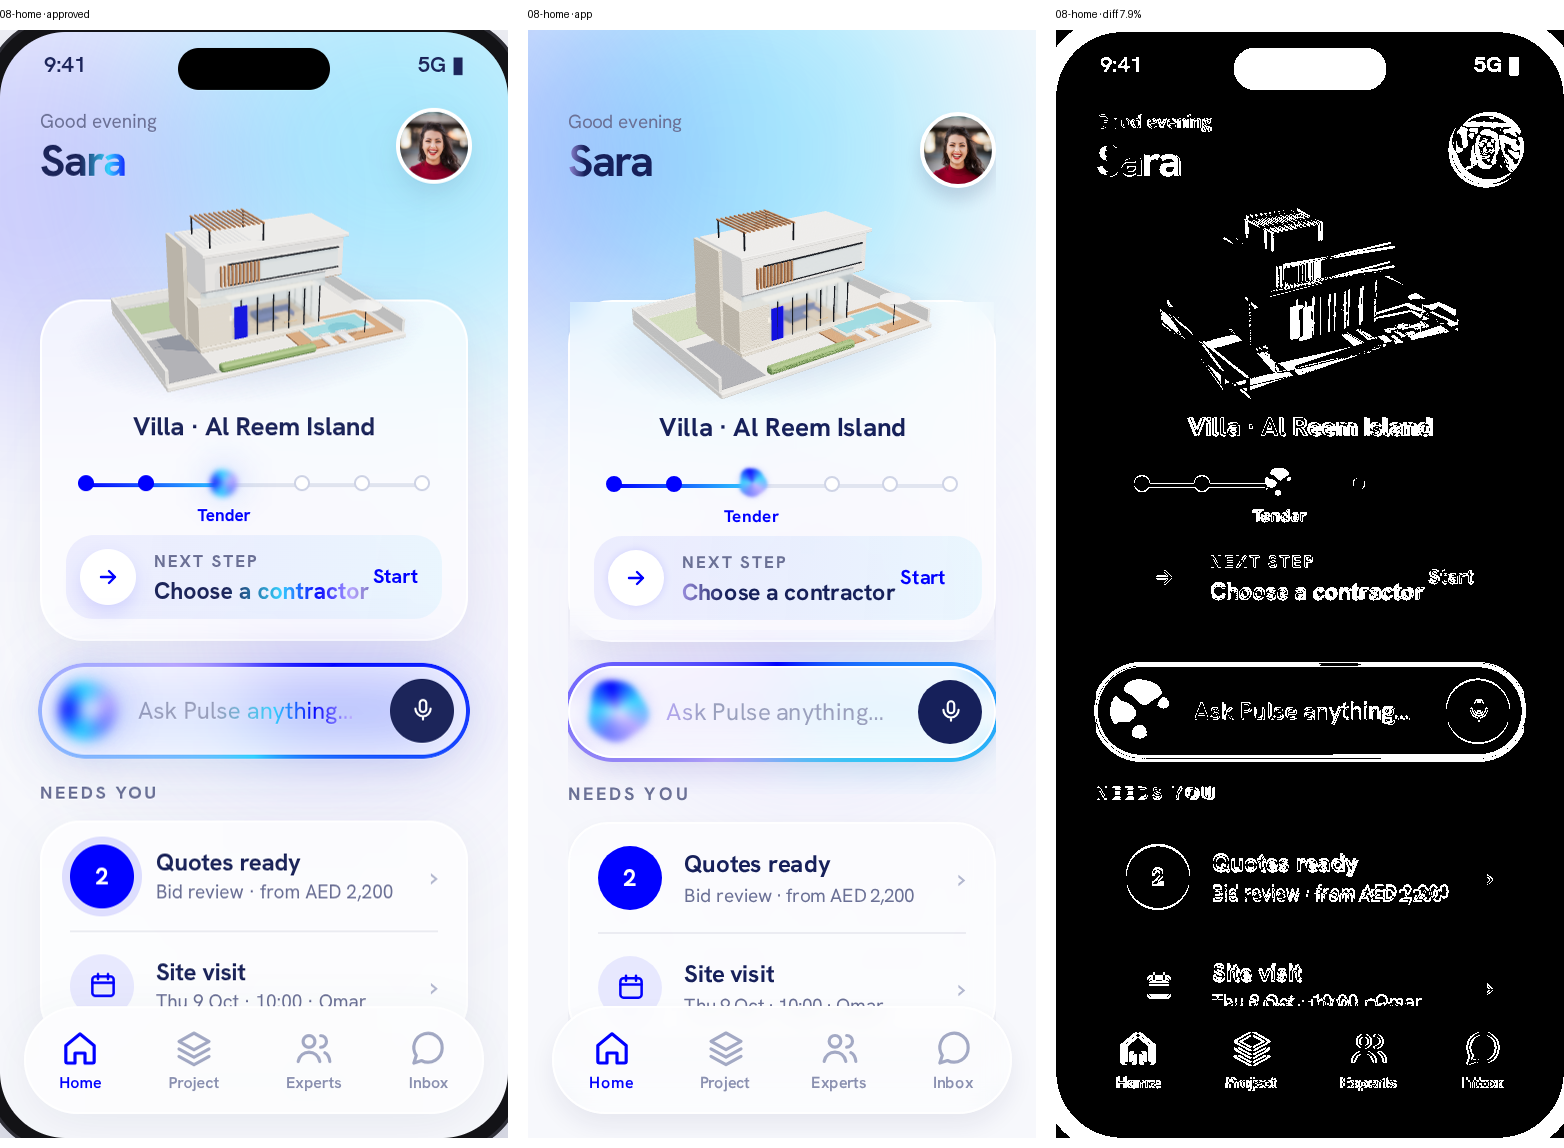
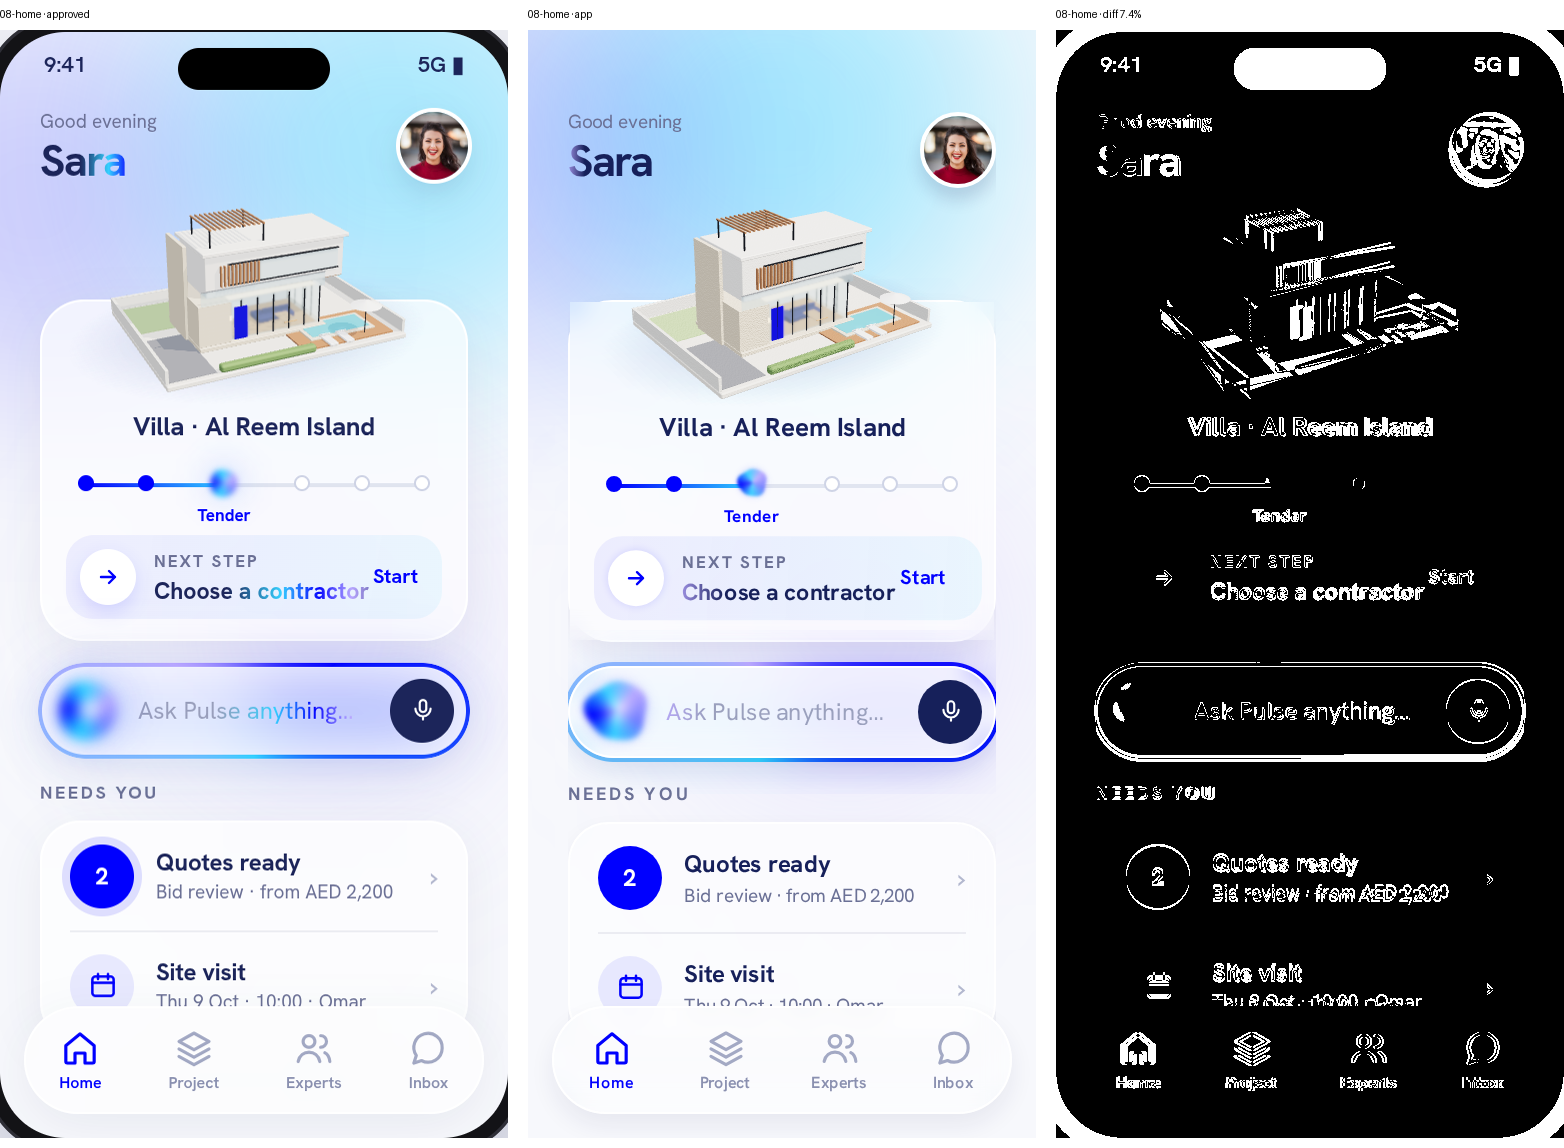
feat(mobile): Home/Profile motion (rise + de-blur stagger, ask-bar blob expand)

diff --git a/mobile/src/app/(client)/(tabs)/home.tsx b/mobile/src/app/(client)/(tabs)/home.tsx
@@ -1,6 +1,8 @@
 import { useMemo } from 'react';
 import { Pressable, ScrollView, View } from 'react-native';
 import { router } from 'expo-router';
+import * as Haptics from 'expo-haptics';
+import Animated, { useSharedValue, useAnimatedStyle, withTiming } from 'react-native-reanimated';
 import { LinearGradient } from 'expo-linear-gradient';
 import { Screen } from '@/ui/Screen';
 import { T } from '@/ui/T';
@@ -12,11 +14,12 @@ import { GradientText } from '@/fx/GradientText';
 import { IridescentBorder } from '@/fx/IridescentBorder';
 import { StageTrack } from '@/fx/StageTrack';
 import { ModelView } from '@/three/ModelView';
+import { Rise } from '@/motion/Rise';
 import { useDemo, newQuotesFor } from '@/store/demo';
 import { BUILDINGS, NEXT_STEP } from '@/data/types';
 import { EXPERTS, aed } from '@/data/seed';
 import { s } from '@/theme/scale';
-import { C } from '@/theme/tokens';
+import { C, EASE } from '@/theme/tokens';
 
 export default function Home() {
   const { stage, projectType, jobs } = useDemo();
@@ -24,63 +27,86 @@ export default function Home() {
   const fresh = useMemo(() => newQuotesFor({ quotes } as any, 'req-bid'), [quotes]);
   const from = Math.min(...fresh.map((q) => q.price));
   const job = jobs.find((j) => j.status === 'visit' || j.status === 'booked');
+  const leave = useSharedValue(0);
+  const page = useAnimatedStyle(() => ({ opacity: 1 - leave.value }));
+  const blob = useAnimatedStyle(() => ({ transform: [{ scale: 1 + leave.value * 3 }] }));
+  // Ask bar: the blob expands (1 to 4) while the page fades (EASE, 350ms), light haptic, Pulse opens.
+  // The tab stays mounted under Pulse, so the values are reset once Pulse covers it.
+  const openPulse = () => {
+    Haptics.impactAsync(Haptics.ImpactFeedbackStyle.Light);
+    leave.value = withTiming(1, { duration: 350, easing: EASE });
+    router.push('/pulse');
+    setTimeout(() => { leave.value = 0; }, 900);
+  };
   const b = BUILDINGS.find((x) => x.id === projectType)!;
   return (
     <Screen bg="aurora3">
+      <Animated.View style={[{ flex: 1 }, page]}>
       <ScrollView showsVerticalScrollIndicator={false} contentContainerStyle={{ paddingBottom: s(90) }}>
-        <View style={{ flexDirection: 'row', justifyContent: 'space-between', alignItems: 'center', paddingTop: s(9) }}>
-          <View><T size={9.5} c={C.mute}>Good evening</T><GradientText shimmer size={22} w={700} ls={-0.035} style={{ marginTop: s(-1) }}>Sara</GradientText></View>
-          <Pressable onPress={() => router.push('/profile')}><Avatar photo="sara" size={34} ring="white" /></Pressable>
-        </View>
-
-        <Glass r={22} style={{ marginTop: s(54.5), paddingTop: s(54), paddingHorizontal: s(12), paddingBottom: s(10), overflow: 'visible' }}>
-          <View style={{ position: 'absolute', left: '50%', marginLeft: -s(95), top: -s(74), width: s(190), height: s(140) }}>
-            <ModelView model={b.id} lights={0.5} radius={9.4} target={[0, 2.2, 0]} height={0.42} spin={0.15} shadows={false} />
+        <Rise index={0} blur={false}>
+          <View style={{ flexDirection: 'row', justifyContent: 'space-between', alignItems: 'center', paddingTop: s(9) }}>
+            <View><T size={9.5} c={C.mute}>Good evening</T><GradientText shimmer size={22} w={700} ls={-0.035} style={{ marginTop: s(-1) }}>Sara</GradientText></View>
+            <Pressable onPress={() => router.push('/profile')}><Avatar photo="sara" size={34} ring="white" /></Pressable>
           </View>
-          <T size={13} w={700} ls={-0.01} align="center">{b.name} · Al Reem Island</T>
-          <StageTrack stage={stage} />
-          <Pressable onPress={() => router.push('/quotes?request=req-bid')}>
-            <LinearGradient colors={['rgba(0,0,254,0.06)', 'rgba(49,209,255,0.08)']} start={{ x: 0, y: 0 }} end={{ x: 1, y: 0.3 }}
-              style={{ marginTop: s(8), borderRadius: s(14), paddingVertical: s(7), paddingLeft: s(7), paddingRight: s(18), marginRight: -s(6), flexDirection: 'row', alignItems: 'center', gap: s(9) }}>
-              <View style={{ width: s(28), height: s(28), borderRadius: s(14), backgroundColor: '#fff', alignItems: 'center', justifyContent: 'center',
-                shadowColor: C.blue, shadowOpacity: 0.12, shadowRadius: s(5), elevation: 2 }}><Icon name="arrowR" size={12} color={C.blue} stroke={2.4} /></View>
-              <View style={{ flex: 1, minWidth: 0, alignItems: 'flex-start' }}>
-                <T size={8.5} w={700} ls={0.12} c={C.mute}>NEXT STEP</T>
-                <GradientText shimmer size={11.5} w={700} style={{ marginTop: 1, flexShrink: 0, whiteSpace: 'nowrap' } as any}>{NEXT_STEP[stage - 1]}</GradientText>
-              </View>
-              <T size={10} w={700} c={C.blue}>Start</T>
-            </LinearGradient>
+        </Rise>
+
+        <Rise index={1} r={22} style={{ marginTop: s(54.5) }}>
+          <Glass r={22} style={{ paddingTop: s(54), paddingHorizontal: s(12), paddingBottom: s(10), overflow: 'visible' }}>
+            <View style={{ position: 'absolute', left: '50%', marginLeft: -s(95), top: -s(74), width: s(190), height: s(140) }}>
+              <ModelView model={b.id} lights={0.5} radius={9.4} target={[0, 2.2, 0]} height={0.42} spin={0.15} shadows={false} />
+            </View>
+            <T size={13} w={700} ls={-0.01} align="center">{b.name} · Al Reem Island</T>
+            <StageTrack stage={stage} />
+            <Rise index={3} spring blur={false}>
+              <Pressable onPress={() => router.push('/quotes?request=req-bid')}>
+                <LinearGradient colors={['rgba(0,0,254,0.06)', 'rgba(49,209,255,0.08)']} start={{ x: 0, y: 0 }} end={{ x: 1, y: 0.3 }}
+                  style={{ marginTop: s(8), borderRadius: s(14), paddingVertical: s(7), paddingLeft: s(7), paddingRight: s(18), marginRight: -s(6), flexDirection: 'row', alignItems: 'center', gap: s(9) }}>
+                  <View style={{ width: s(28), height: s(28), borderRadius: s(14), backgroundColor: '#fff', alignItems: 'center', justifyContent: 'center',
+                    shadowColor: C.blue, shadowOpacity: 0.12, shadowRadius: s(5), elevation: 2 }}><Icon name="arrowR" size={12} color={C.blue} stroke={2.4} /></View>
+                  <View style={{ flex: 1, minWidth: 0, alignItems: 'flex-start' }}>
+                    <T size={8.5} w={700} ls={0.12} c={C.mute}>NEXT STEP</T>
+                    <GradientText shimmer size={11.5} w={700} style={{ marginTop: 1, flexShrink: 0, whiteSpace: 'nowrap' } as any}>{NEXT_STEP[stage - 1]}</GradientText>
+                  </View>
+                  <T size={10} w={700} c={C.blue}>Start</T>
+                </LinearGradient>
+              </Pressable>
+            </Rise>
+          </Glass>
+        </Rise>
+
+        <Rise index={2} r={24} style={{ marginTop: s(12) }}>
+          <Pressable onPress={openPulse}>
+            <IridescentBorder r={24}>
+              <Glass r={24} style={{ flexDirection: 'row', alignItems: 'center', gap: s(10), paddingVertical: s(6), paddingLeft: s(8), paddingRight: s(6) }}>
+                <Animated.View style={blob}><Orb size={30} /></Animated.View>
+                <GradientText shimmer base={C.faint2} size={12} style={{ flex: 1 }}>Ask Pulse anything…</GradientText>
+                <View style={{ width: s(32), height: s(32), borderRadius: s(16), backgroundColor: C.navy, alignItems: 'center', justifyContent: 'center' }}><Icon name="mic" size={13} color="#fff" stroke={2} /></View>
+              </Glass>
+            </IridescentBorder>
           </Pressable>
-        </Glass>
+        </Rise>
 
-        <Pressable onPress={() => router.push('/pulse')} style={{ marginTop: s(12) }}>
-          <IridescentBorder r={24}>
-            <Glass r={24} style={{ flexDirection: 'row', alignItems: 'center', gap: s(10), paddingVertical: s(6), paddingLeft: s(8), paddingRight: s(6) }}>
-              <Orb size={30} />
-              <GradientText shimmer base={C.faint2} size={12} style={{ flex: 1 }}>Ask Pulse anything…</GradientText>
-              <View style={{ width: s(32), height: s(32), borderRadius: s(16), backgroundColor: C.navy, alignItems: 'center', justifyContent: 'center' }}><Icon name="mic" size={13} color="#fff" stroke={2} /></View>
-            </Glass>
-          </IridescentBorder>
-        </Pressable>
-
-        <T size={9} w={700} ls={0.14} c={C.mute} style={{ marginTop: s(12), marginBottom: s(8) }}>NEEDS YOU</T>
-        <Glass r={20} style={{ paddingHorizontal: s(14) }}>
-          {fresh.length > 0 && (
-            <Pressable onPress={() => router.push('/quotes?request=req-bid')} style={{ flexDirection: 'row', alignItems: 'center', gap: s(11), paddingVertical: s(11), borderBottomWidth: 1, borderBottomColor: C.line }}>
-              <View style={{ width: s(32), height: s(32), borderRadius: s(16), backgroundColor: C.blue, alignItems: 'center', justifyContent: 'center', borderWidth: s(4), borderColor: 'rgba(0,0,254,0.12)' }}><T size={12} w={700} c="#fff">{String(fresh.length)}</T></View>
-              <View style={{ flex: 1 }}><T size={12} w={700} ls={-0.01}>Quotes ready</T><T size={9.5} c={C.mute} style={{ marginTop: 1 }}>{`Bid review · from ${aed(from)}`}</T></View>
-              <T size={15} c={C.faint3}>›</T>
-            </Pressable>
-          )}
-          {job && (
-            <Pressable onPress={() => router.push(`/job/${job.id}`)} style={{ flexDirection: 'row', alignItems: 'center', gap: s(11), paddingVertical: s(11) }}>
-              <View style={{ width: s(32), height: s(32), borderRadius: s(16), backgroundColor: 'rgba(0,0,254,0.08)', alignItems: 'center', justifyContent: 'center' }}><Icon name="cal" size={15} color={C.blue} stroke={2} /></View>
-              <View style={{ flex: 1 }}><T size={12} w={700} ls={-0.01}>Site visit</T><T size={9.5} c={C.mute} style={{ marginTop: 1 }}>{`${job.dayLabel} · ${job.timeLabel} · ${EXPERTS.find((e) => e.id === job.expertId)!.first}`}</T></View>
-              <T size={15} c={C.faint3}>›</T>
-            </Pressable>
-          )}
-        </Glass>
+        <Rise index={4} blur={false}><T size={9} w={700} ls={0.14} c={C.mute} style={{ marginTop: s(12), marginBottom: s(8) }}>NEEDS YOU</T></Rise>
+        <Rise index={5} r={20}>
+          <Glass r={20} style={{ paddingHorizontal: s(14) }}>
+            {fresh.length > 0 && (
+              <Pressable onPress={() => router.push('/quotes?request=req-bid')} style={{ flexDirection: 'row', alignItems: 'center', gap: s(11), paddingVertical: s(11), borderBottomWidth: 1, borderBottomColor: C.line }}>
+                <View style={{ width: s(32), height: s(32), borderRadius: s(16), backgroundColor: C.blue, alignItems: 'center', justifyContent: 'center', borderWidth: s(4), borderColor: 'rgba(0,0,254,0.12)' }}><T size={12} w={700} c="#fff">{String(fresh.length)}</T></View>
+                <View style={{ flex: 1 }}><T size={12} w={700} ls={-0.01}>Quotes ready</T><T size={9.5} c={C.mute} style={{ marginTop: 1 }}>{`Bid review · from ${aed(from)}`}</T></View>
+                <T size={15} c={C.faint3}>›</T>
+              </Pressable>
+            )}
+            {job && (
+              <Pressable onPress={() => router.push(`/job/${job.id}`)} style={{ flexDirection: 'row', alignItems: 'center', gap: s(11), paddingVertical: s(11) }}>
+                <View style={{ width: s(32), height: s(32), borderRadius: s(16), backgroundColor: 'rgba(0,0,254,0.08)', alignItems: 'center', justifyContent: 'center' }}><Icon name="cal" size={15} color={C.blue} stroke={2} /></View>
+                <View style={{ flex: 1 }}><T size={12} w={700} ls={-0.01}>Site visit</T><T size={9.5} c={C.mute} style={{ marginTop: 1 }}>{`${job.dayLabel} · ${job.timeLabel} · ${EXPERTS.find((e) => e.id === job.expertId)!.first}`}</T></View>
+                <T size={15} c={C.faint3}>›</T>
+              </Pressable>
+            )}
+          </Glass>
+        </Rise>
       </ScrollView>
+      </Animated.View>
     </Screen>
   );
 }

diff --git a/mobile/src/app/(client)/(tabs)/profile.tsx b/mobile/src/app/(client)/(tabs)/profile.tsx
@@ -1,6 +1,9 @@
 import { Alert, Pressable, View } from 'react-native';
 import { router } from 'expo-router';
 import { LinearGradient } from 'expo-linear-gradient';
+import Animated, { useSharedValue, useAnimatedStyle, withTiming } from 'react-native-reanimated';
+import * as Haptics from 'expo-haptics';
+import { Rise } from '@/motion/Rise';
 import { Screen } from '@/ui/Screen';
 import { T } from '@/ui/T';
 import { Glass } from '@/ui/Glass';
@@ -11,7 +14,7 @@ import { CLIENT } from '@/data/seed';
 import { GRAD } from '@/theme/tokens';
 import { nextRoute } from '@/nav/next';
 import { s } from '@/theme/scale';
-import { C } from '@/theme/tokens';
+import { C, EASE } from '@/theme/tokens';
 
 const Row = ({ label, value, last }: { label: string; value?: string; last?: boolean }) => (
   <View style={{ flexDirection: 'row', alignItems: 'center', paddingVertical: s(12), borderBottomWidth: last ? 0 : 1, borderBottomColor: C.line }}>
@@ -21,21 +24,30 @@ const Row = ({ label, value, last }: { label: string; value?: string; last?: boo
 );
 
 export default function Profile() {
-  const toExpert = () => { const st = useDemo.getState(); st.setRole('expert'); router.replace(nextRoute({ ...st, role: 'expert' }) as any); };
+  const out = useSharedValue(0);
+  const fade = useAnimatedStyle(() => ({ opacity: 1 - out.value }));
+  // Switching cross-fades into Expert mode: the page fades out (EASE) while the expert route replaces it.
+  const toExpert = () => { Haptics.impactAsync(Haptics.ImpactFeedbackStyle.Light); out.value = withTiming(1, { duration: 350, easing: EASE }); const st = useDemo.getState(); st.setRole('expert'); router.replace(nextRoute({ ...st, role: 'expert' }) as any); };
   const reset = () => Alert.alert('Reset demo?', 'Restores the original demo data.', [{ text: 'Cancel' }, { text: 'Reset', style: 'destructive',
     onPress: () => { useDemo.getState().resetDemo(); router.replace('/'); } }]);
   return (
     <Screen bg="aurora3">
-      <View style={{ alignItems: 'center', marginTop: s(14) }}>
+      <Animated.View style={[{ flex: 1 }, fade]}>
+      <Rise index={0} blur={false} style={{ alignItems: 'center', marginTop: s(14) }}>
+      <View style={{ alignItems: 'center' }}>
         <Avatar photo="sara" size={70} ring="white4" />
         <T size={20} w={700} ls={-0.035} style={{ marginTop: s(6) }}>{CLIENT.name}</T>
         <T size={11} c={C.mute} style={{ marginTop: s(2) }}>{CLIENT.email}</T>
       </View>
-      <Glass r={18} style={{ marginTop: s(18), paddingHorizontal: s(14) }}>
+      </Rise>
+      <Rise index={1} r={18} style={{ marginTop: s(18) }}>
+      <Glass r={18} style={{ paddingHorizontal: s(14) }}>
         <Row label="My projects" value="1" /><Row label="Payments" /><Row label="Notifications" /><Row label="Language" value="English" last />
       </Glass>
+      </Rise>
+      <Rise index={2} r={18} style={{ marginTop: s(14) }}>
       <Pressable onPress={toExpert}>
-        <Glass r={18} style={{ marginTop: s(14), padding: s(14), flexDirection: 'row', alignItems: 'center', gap: s(12) }}>
+        <Glass r={18} style={{ padding: s(14), flexDirection: 'row', alignItems: 'center', gap: s(12) }}>
           <LinearGradient colors={GRAD} locations={[0, 0.55, 1]} start={{ x: 0, y: 0 }} end={{ x: 1, y: 1 }} style={{ width: s(32), height: s(32), borderRadius: s(10), alignItems: 'center', justifyContent: 'center' }}>
             <Icon name="swap" size={15} color="#fff" stroke={2.2} />
           </LinearGradient>
@@ -43,7 +55,9 @@ export default function Profile() {
           <T size={14} w={700} c={C.blue}>›</T>
         </Glass>
       </Pressable>
+      </Rise>
       <Pressable onLongPress={reset} style={{ marginTop: 'auto', marginBottom: s(84), alignSelf: 'center', opacity: 0 }}><T size={9} c={C.faint3}>Project Pulse demo · v1.0</T></Pressable>
+      </Animated.View>
     </Screen>
   );
 }

diff --git a/mobile/src/motion/Rise.tsx b/mobile/src/motion/Rise.tsx
@@ -1,0 +1,31 @@
+import { useEffect } from 'react';
+import { StyleSheet, ViewStyle } from 'react-native';
+import Animated, { useSharedValue, useAnimatedStyle, useAnimatedProps, withDelay, withTiming, withSpring } from 'react-native-reanimated';
+import { BlurView } from 'expo-blur';
+import { s } from '@/theme/scale';
+import { EASE } from '@/theme/tokens';
+
+const ABlur = Animated.createAnimatedComponent(BlurView);
+
+/** "Cards rise and de-blur in sequence": translateY s(14)->0 + opacity, with a blur veil that animates to 0. Stagger = index * 70ms. */
+export function Rise({ index = 0, r = 0, spring, blur = true, style, children }: {
+  index?: number; r?: number; spring?: boolean; blur?: boolean; style?: ViewStyle | ViewStyle[]; children: React.ReactNode;
+}) {
+  const p = useSharedValue(0);
+  useEffect(() => {
+    p.value = withDelay(index * 70, spring ? withSpring(1, { damping: 14, stiffness: 140, mass: 0.9 }) : withTiming(1, { duration: 650, easing: EASE }));
+  }, []);
+  const st = useAnimatedStyle(() => ({ opacity: Math.min(1, p.value * 1.6), transform: [{ translateY: (1 - p.value) * s(14) }] }));
+  const veil = useAnimatedProps(() => ({ intensity: Math.max(0, 1 - p.value) * 40 }));
+  const vs = useAnimatedStyle(() => ({ opacity: p.value >= 0.999 ? 0 : 1 }));
+  return (
+    <Animated.View style={[st, style as any]}>
+      {children}
+      {blur && (
+        <Animated.View pointerEvents="none" style={[StyleSheet.absoluteFill, { borderRadius: s(r), overflow: 'hidden' }, vs]}>
+          <ABlur tint="light" animatedProps={veil} style={StyleSheet.absoluteFill} />
+        </Animated.View>
+      )}
+    </Animated.View>
+  );
+}

diff --git a/mobile/__tests__/home.test.tsx b/mobile/__tests__/home.test.tsx
@@ -24,3 +24,9 @@ test('Profile switch goes to the expert side', async () => {
   expect(useDemo.getState().role).toBe('expert');
   expect(router.replace).toHaveBeenCalledWith('/expert-role');
 });
+
+test('Tapping the Ask bar expands the blob and opens Pulse', async () => {
+  await render(<Home />);
+  await fireEvent.press(screen.getByText('Ask Pulse anything…'));
+  expect(router.push).toHaveBeenCalledWith('/pulse');
+});
